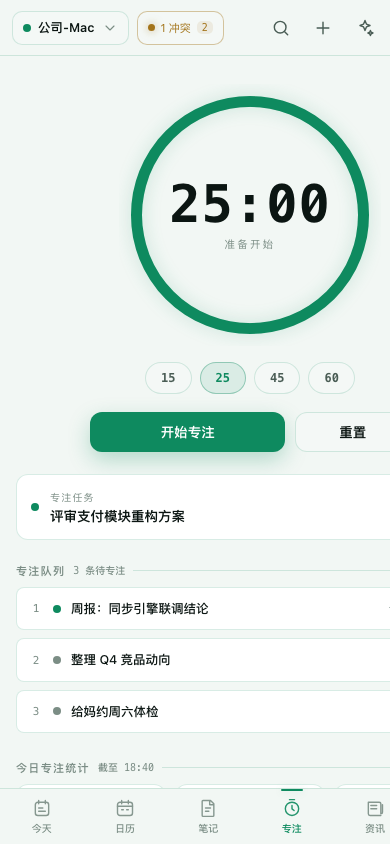
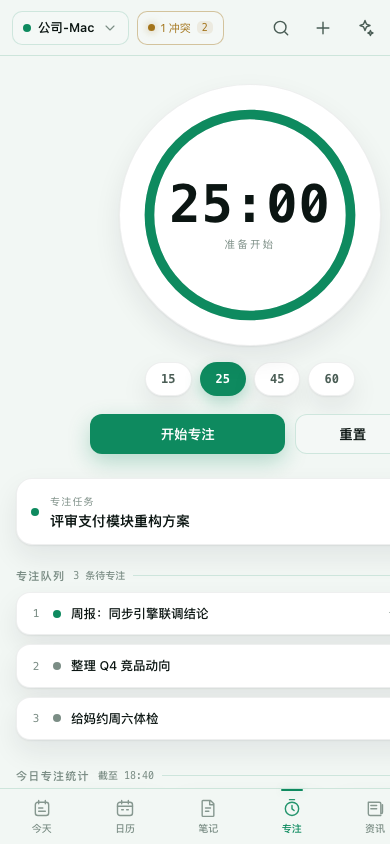
fix(prototype): 清单行距加大 + 专注/资讯统一卡片语言
- 清单：行内 padding 17→20px、行高 78→86px、最小高度 64px、行间 2px 呼吸、分组间距 22→26px
- 专注：圆盘/预设/专注任务/队列/统计全部改白卡+柔和阴影
- 资讯：卡片白卡化（16px 圆角+阴影+悬停位移）、订阅 chips 同语言
- verify ALL_PASS；多视图截图重出

diff --git a/docs/prototype/index.html b/docs/prototype/index.html
@@ -1034,6 +1034,45 @@ body{
 .monthgrid{background:var(--card);border:1px solid var(--card-line);border-radius:18px;box-shadow:var(--sh);padding:12px}
 .agenda-main{margin-top:16px}
 .agenda-main .card{background:var(--card);border:1px solid var(--card-line);box-shadow:var(--sh);border-radius:16px}
+
+/* ═══════════ 清单：加大行间距（用户反馈） ═══════════ */
+.lgroup{margin-top:22px}
+.lhead{padding:2px 4px 11px}
+.lbody{padding:6px 8px}
+.lbody .trow{padding:17px 12px}
+.lbody .trow .tt{line-height:1.5}
+.lbody .trow .tmeta{margin-top:5px}
+/* ═══════════ 专注：白卡体系 ═══════════ */
+.ringwrap{background:var(--card);border:1px solid var(--card-line);box-shadow:var(--sh);border-radius:50%;
+  padding:14px;box-sizing:border-box}
+.ringwrap .track{stroke:var(--card-track)}
+.ringwrap .run{filter:none}
+.preset{height:34px;background:var(--card);border:1px solid var(--card-line);box-shadow:var(--sh);color:var(--t2)}
+.preset.on{background:var(--acc);color:var(--acc-ink);border-color:transparent;
+  box-shadow:0 6px 16px color-mix(in srgb,var(--acc) 30%,transparent)}
+.focus-task{background:var(--card);border:1px solid var(--card-line);box-shadow:var(--sh);border-radius:16px;margin-top:18px}
+.focus-task .fn{font-size:14px}
+.qitem{background:var(--card);border:1px solid var(--card-line);box-shadow:var(--sh);border-radius:14px;margin-bottom:9px}
+.qitem:hover{transform:none;border-color:color-mix(in srgb,var(--acc) 26%,transparent)}
+.statbox{background:var(--card);border:1px solid var(--card-line);box-shadow:var(--sh);border-radius:14px}
+.statbox .sv{color:var(--t1)}
+/* ═══════════ 资讯：白卡栅格 ═══════════ */
+.newsgrid{column-gap:14px}
+.ncard{margin:0 0 14px;padding:16px;background:var(--card);border:1px solid var(--card-line);
+  box-shadow:var(--sh);border-radius:16px}
+.ncard:hover{transform:translateY(-1px);border-color:color-mix(in srgb,var(--acc) 26%,transparent)}
+.ncard .nt{font-size:14.5px;font-weight:620;margin:9px 0 7px}
+.ncard .nsum{font-size:12.5px;line-height:1.85}
+.ncard .nmeta{margin-top:11px}
+.chips .chip{background:var(--card);border:1px solid var(--card-line)}
+
+/* 清单行距再加一档（用户反馈：内容卡片间隔不够） */
+.lgroup{margin-top:26px}
+.lbody{padding:8px 10px}
+.lbody .trow{padding:20px 12px;min-height:64px}
+.lbody .trow + .trow{margin-top:2px}
+.lbody .trow .tt{line-height:1.55}
+.lbody .trow .tmeta{margin-top:6px}
 </style>
 </head>
 <body class="dsh" data-skin="moss" data-light="1">
